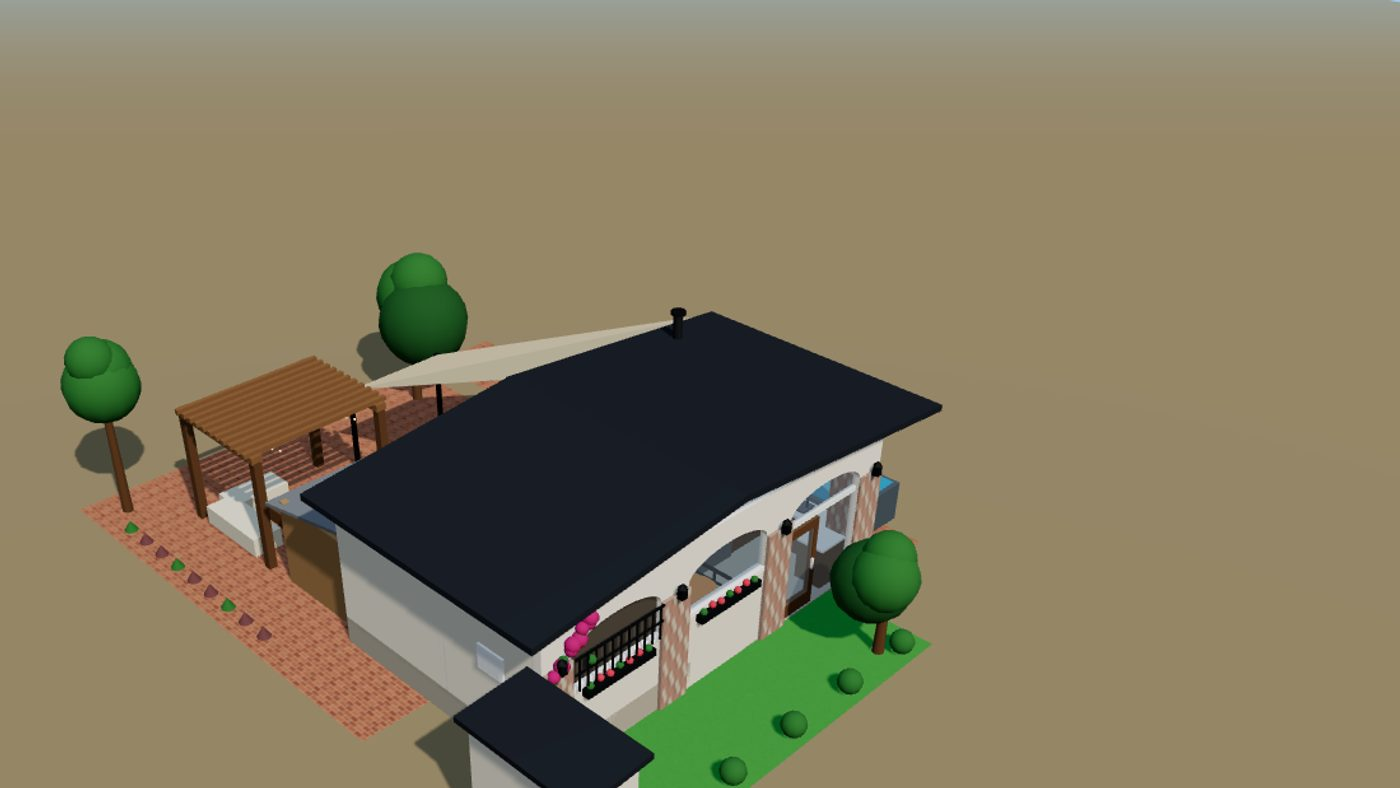
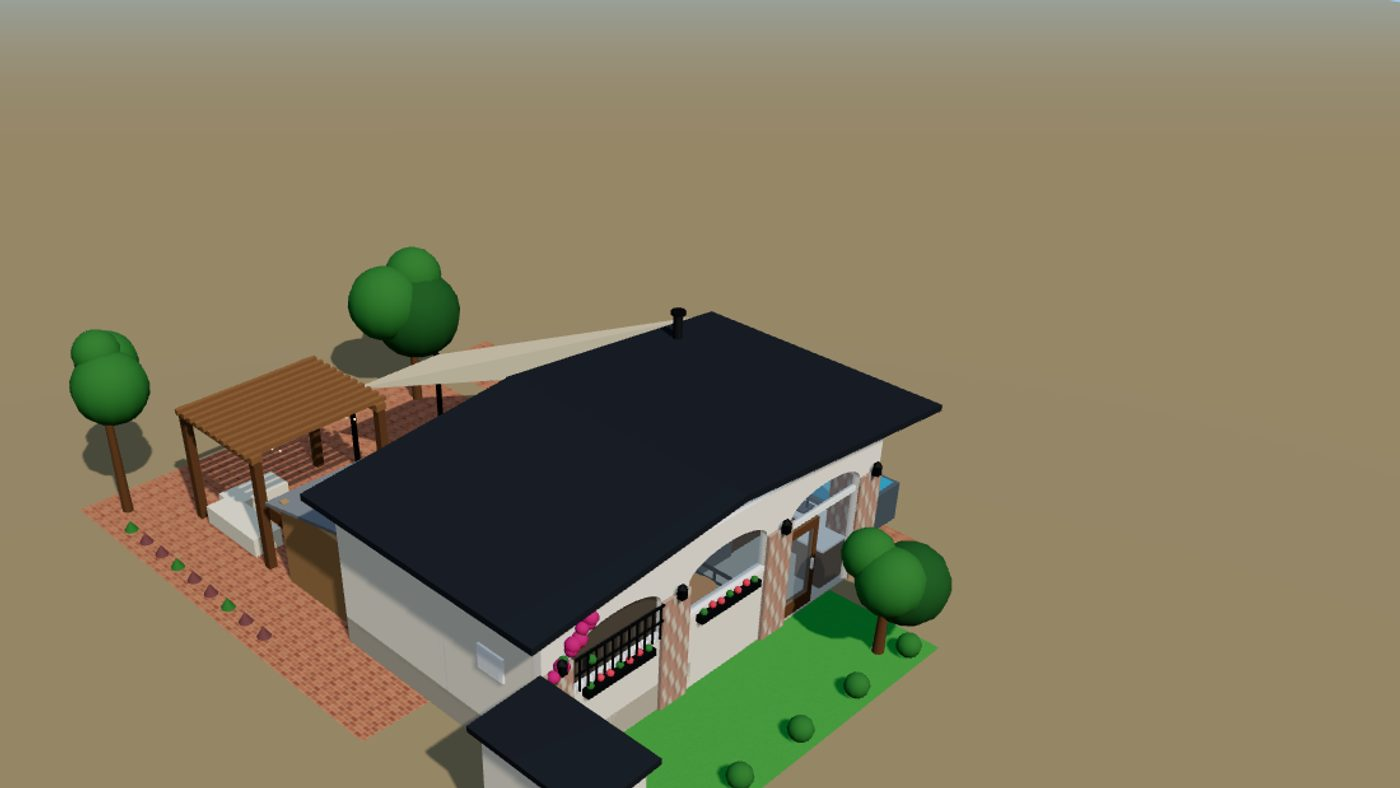
Field dims: east fence 8ft6 off the building (x26.5); outdoor bath 7ft6 x 4 tucked in the SE corner against both fences, door W — model + floorplan + blueprint + t37/t31/t32 notes; assets regenerated

diff --git a/floorplan.html b/floorplan.html
@@ -177,25 +177,25 @@ svg{max-width:100%;height:auto}
   <line x1="136" y1="310" x2="144" y2="310" stroke="#30363d" stroke-width=".5"/>
   <text x="152" y="288" text-anchor="middle" font-size="9" fill="#30363d">5'</text>
 
-  <!-- ═══ EXISTING BATHROOM — rotated 7/18: 8×4 E-W, long wall on the south fence ═══ -->
-  <!-- South fence at y=310. Bath 4' deep = y=270 to y=310; 8' long = x=180 to x=260 -->
-  <!-- Door on the WEST short side (x=180), perpendicular to the fence -->
-  <rect x="180" y="270" width="80" height="40" rx="2" fill="#3d1418" stroke="#f85149" stroke-width="2"/>
-  <text x="220" y="287" text-anchor="middle" font-size="11" fill="#f85149" font-weight="600">BATH</text>
-  <text x="220" y="300" text-anchor="middle" font-size="9" fill="rgba(248,81,73,.6)">8 × 4 · door W</text>
+  <!-- ═══ EXISTING BATHROOM — rotated 7/18: 7'-6"×4 E-W, long wall on the south fence ═══ -->
+  <!-- South fence y=310, east fence x=265 (8'-6" off the building). Bath 4' deep = y=270-310; -->
+  <!-- 7'-6" long = x=190 to x=265, tucked in the SE corner. Door on the WEST short side (x=190). -->
+  <rect x="190" y="270" width="75" height="40" rx="2" fill="#3d1418" stroke="#f85149" stroke-width="2"/>
+  <text x="227" y="287" text-anchor="middle" font-size="11" fill="#f85149" font-weight="600">BATH</text>
+  <text x="227" y="300" text-anchor="middle" font-size="9" fill="rgba(248,81,73,.6)">7'-6" × 4 · door W</text>
 
   <!-- ═══ FENCE — south and east ═══ -->
   <!-- South fence: 2.5' below new bathroom (y=285+25=310) -->
-  <line x1="-20" y1="310" x2="260" y2="310" stroke="#8b949e" stroke-width="2" stroke-dasharray="12,6"/>
-  <!-- East fence: 8' east of building (x=180+80=260) -->
-  <line x1="260" y1="310" x2="260" y2="-40" stroke="#8b949e" stroke-width="2" stroke-dasharray="12,6"/>
+  <line x1="-20" y1="310" x2="265" y2="310" stroke="#8b949e" stroke-width="2" stroke-dasharray="12,6"/>
+  <!-- East fence: 8'-6" east of building (x=180+85=265) -->
+  <line x1="265" y1="310" x2="265" y2="-40" stroke="#8b949e" stroke-width="2" stroke-dasharray="12,6"/>
 
   <text x="100" y="326" text-anchor="middle" font-size="10" fill="#8b949e" font-weight="600">FENCE (south)</text>
-  <text x="272" y="100" text-anchor="middle" font-size="10" fill="#8b949e" font-weight="600" transform="rotate(90,272,100)">FENCE (east)</text>
+  <text x="277" y="100" text-anchor="middle" font-size="10" fill="#8b949e" font-weight="600" transform="rotate(90,277,100)">FENCE (east)</text>
 
   <!-- Gate — east fence, 5' north of the rotated bath's NE corner (y=270-50=220 bottom) -->
-  <rect x="256" y="180" width="8" height="40" rx="2" fill="#0d1117" stroke="#8b949e" stroke-width="1.5"/>
-  <text x="280" y="204" text-anchor="middle" font-size="9" fill="#8b949e">GATE</text>
+  <rect x="261" y="180" width="8" height="40" rx="2" fill="#0d1117" stroke="#8b949e" stroke-width="1.5"/>
+  <text x="285" y="204" text-anchor="middle" font-size="9" fill="#8b949e">GATE</text>
 
   <!-- 5' gap: gate to bathroom -->
   <line x1="268" y1="220" x2="268" y2="230" stroke="#30363d" stroke-width=".5"/>
@@ -211,7 +211,7 @@ svg{max-width:100%;height:auto}
   <div class="legend-item"><div class="legend-swatch" style="background:#2a1a3a;border-color:#bc8cff"></div>East Room + Veranda — 92 sf open deck (as-built)</div>
   <div class="legend-item"><div class="legend-swatch" style="background:#3a2a1a;border-color:#d29922"></div>New Bath 8×5 — 40 sf</div>
   <div class="legend-item"><div class="legend-swatch" style="background:#1a3a2a;border-color:#3fb950"></div>Kitchen 10×11 — 110 sf</div>
-  <div class="legend-item"><div class="legend-swatch" style="background:#3d1418;border-color:#f85149"></div>Exist. Bath 4×8 — 32 sf (separate)</div>
+  <div class="legend-item"><div class="legend-swatch" style="background:#3d1418;border-color:#f85149"></div>Exist. Bath 7'-6"×4 — 30 sf (separate)</div>
   <div class="legend-item"><div class="legend-swatch" style="background:none;border-color:#8b949e;border-style:dashed"></div>Fence / Gate</div>
 </div>
 
@@ -220,7 +220,7 @@ svg{max-width:100%;height:auto}
   <div style="font-size:13px;color:#8b949e;line-height:1.6">
     Enclosed 270 sf — Office: 120 · Kitchen: 110 · New Bath: 40<br>
     Open raised deck 92 sf — East Room 8×7 + Veranda 80"×64" as-built<br>
-    <span style="color:#f85149">+ Exist. Bath: 32 sf (detached)</span>
+    <span style="color:#f85149">+ Exist. Bath: 30 sf (detached)</span>
   </div>
 </div>
 
@@ -261,7 +261,7 @@ svg{max-width:100%;height:auto}
     'east-room':  [168, 154],
     'kitchen':    [168, -6],
     'new-bath':   [110, 220],
-    'exist-bath': [220, 290],
+    'exist-bath': [227, 290],
     'patio':      [40, 90],
     'yard':       [20, 296],
   };

diff --git a/render3d.html b/render3d.html
@@ -56,8 +56,8 @@ import { OrbitControls } from 'three/addons/controls/OrbitControls.js';
 // Kitchen x8-18/z-2..9 (grade, 10×11), veranda ext x8.7-18/z9-14 (raised, 36\" stair in NW notch),
 // office x0-10/z14-26 (raised 2', 9' walls), east room x10-18/z14-21 (open raised deck),
 // new bath x10-18/z21-26 (raised, flush with the building south face),
-// exist bath x18-26/z27-31 (rot 7/18: 8' wall on the south fence, door west short side).
-// East fence x=26, south fence z=31, gate z18-22.
+// exist bath x19-26.5/z27-31 (rot 7/18: 7'-6" wall on the south fence, door west short side).
+// East fence x=26.5 (8'-6" off the building), south fence z=31, gate z18-22.
 
 const canvas = document.getElementById('c');
 const renderer = new THREE.WebGLRenderer({ canvas, antialias: true });
@@ -184,7 +184,7 @@ pad(0, -2, 8, 14, paverTex(2.5, 4));         // open north patio remainder
 pad(-26, -8, 8, -2, paverTex(9, 2));         // north patio run
 pad(8, -9, 19, -4, paverTex(3, 2.5));        // covered porch north of the arch wall (under roof overhang)
 // Lush lawn — east yard, building to fence
-pad(18, 0, 26, 31, lawnTex(3, 8), 0.03);
+pad(18, 0, 26.5, 31, lawnTex(3, 8), 0.03);
 
 // ============ BUILDING ============
 const B = new THREE.Group(); scene.add(B);
@@ -654,11 +654,11 @@ const SAIL = new THREE.Group(); scene.add(SAIL);
 // ============ EXISTING DETACHED BATH (cut to 4×8, ROTATED 7/18) ============
 // Long 8' wall butted against the SOUTH fence (z27-31); door on the west short
 // side (x18 face), perpendicular to the fence, facing the lawn.
-box(8, 8, 4, M.stucco, 22, 4, 29);
+box(7.5, 8, 4, M.stucco, 22.75, 4, 29);
 {
-  const m = new THREE.Mesh(new THREE.BoxGeometry(9, 0.4, 5), M.roof);
-  m.position.set(22, 8.4, 29); m.rotation.x = 0.06; m.castShadow = true; scene.add(m);
-  box(0.2, 6.5, 2.2, M.woodDark, 17.95, 3.25, 29);
+  const m = new THREE.Mesh(new THREE.BoxGeometry(8.5, 0.4, 5), M.roof);
+  m.position.set(22.75, 8.4, 29); m.rotation.x = 0.06; m.castShadow = true; scene.add(m);
+  box(0.2, 6.5, 2.2, M.woodDark, 18.95, 3.25, 29);
 }
 
 // ============ FENCES + GATE (white vinyl, per plan) — toggleable, hidden by default ============
@@ -673,12 +673,12 @@ function fenceRun(x1, z1, x2, z2) {
   for (let d = 0; d <= len; d += 8) box(0.5, 6.3, 0.5, M.fence, Math.min(d, len), 3.15, 0, g);
   FENCE.add(g); return g;
 }
-fenceRun(26, 31, 26, 22);   // east, south of gate
-fenceRun(26, 18, 26, -16);  // east, north of gate (runs past the spa pavilion)
-fenceRun(-26, 31, 26, 31);  // south
+fenceRun(26.5, 31, 26.5, 22);   // east, south of gate (8'-6" off the building)
+fenceRun(26.5, 18, 26.5, -16);  // east, north of gate (runs past the spa pavilion)
+fenceRun(-26, 31, 26.5, 31);  // south
 fenceRun(-26, -0, -26, 31); // west boundary behind pavilion
 // Gate (slightly darker, latch side post)
-box(0.4, 5.9, 4, M.trim, 26, 2.95, 20, FENCE).material = new THREE.MeshStandardMaterial({ color: 0xdde3e8, roughness: 0.6 });
+box(0.4, 5.9, 4, M.trim, 26.5, 2.95, 20, FENCE).material = new THREE.MeshStandardMaterial({ color: 0xdde3e8, roughness: 0.6 });
 FENCE.visible = false;      // hidden by default — toggle with the Fence button
 
 // ============ LANDSCAPE (existing — kept) ============
@@ -704,7 +704,7 @@ for (let i = 0; i < 9; i++) {
 // Shrubs along east fence in the lawn
 for (let i = 0; i < 5; i++) {
   const s = new THREE.Mesh(new THREE.SphereGeometry(0.8, 10, 8), M.leaf);
-  s.position.set(25, 0.8, 2 + i * 5.4); s.castShadow = true; scene.add(s);
+  s.position.set(25.5, 0.8, 2 + i * 5.4); s.castShadow = true; scene.add(s);
 }
 
 // ============ CAMERA PRESETS ============

diff --git a/blueprint.html b/blueprint.html
@@ -84,9 +84,9 @@ th{color:#7ab8ff;font-size:11px;text-transform:uppercase;letter-spacing:.5px}
   <text x="140" y="243" text-anchor="middle" font-size="7" fill="#5a7699">8'-0" × 5'-0" · flush w/ south face</text>
 
   <!-- Existing bath — rotated 7/18: long wall on the south fence, door on W short side -->
-  <rect x="180" y="270" width="80" height="40" fill="none" stroke="#cfe3ff" stroke-width="1.6"/>
-  <text x="220" y="287" text-anchor="middle" font-size="8" fill="#cfe3ff">EXIST. BATH</text>
-  <text x="220" y="297" text-anchor="middle" font-size="6.5" fill="#6d8db3">8'-0" × 4'-0" · door W</text>
+  <rect x="190" y="270" width="75" height="40" fill="none" stroke="#cfe3ff" stroke-width="1.6"/>
+  <text x="227" y="287" text-anchor="middle" font-size="8" fill="#cfe3ff">EXIST. BATH</text>
+  <text x="227" y="297" text-anchor="middle" font-size="6.5" fill="#6d8db3">7'-6" × 4'-0" · door W</text>
 
   <!-- ═══ OPENINGS OBSERVED IN PHOTO SURVEY ═══ -->
 
@@ -203,8 +203,8 @@ th{color:#7ab8ff;font-size:11px;text-transform:uppercase;letter-spacing:.5px}
   <text x="-10" y="-87" text-anchor="middle" font-size="7" fill="#d29922" font-weight="700">13</text>
 
   <!-- Fences -->
-  <line x1="-20" y1="310" x2="260" y2="310" stroke="#6d8db3" stroke-width="1.6" stroke-dasharray="12,6"/>
-  <line x1="260" y1="310" x2="260" y2="-40" stroke="#6d8db3" stroke-width="1.6" stroke-dasharray="12,6"/>
+  <line x1="-20" y1="310" x2="265" y2="310" stroke="#6d8db3" stroke-width="1.6" stroke-dasharray="12,6"/>
+  <line x1="265" y1="310" x2="265" y2="-40" stroke="#6d8db3" stroke-width="1.6" stroke-dasharray="12,6"/>
   <rect x="256" y="180" width="8" height="40" fill="#0d1f38" stroke="#6d8db3" stroke-width="1.2"/>
   <text x="281" y="203" text-anchor="middle" font-size="8" fill="#6d8db3">GATE</text>
   <text x="100" y="324" text-anchor="middle" font-size="9" fill="#6d8db3">FENCE (SOUTH) — vinyl panels staged on site</text>